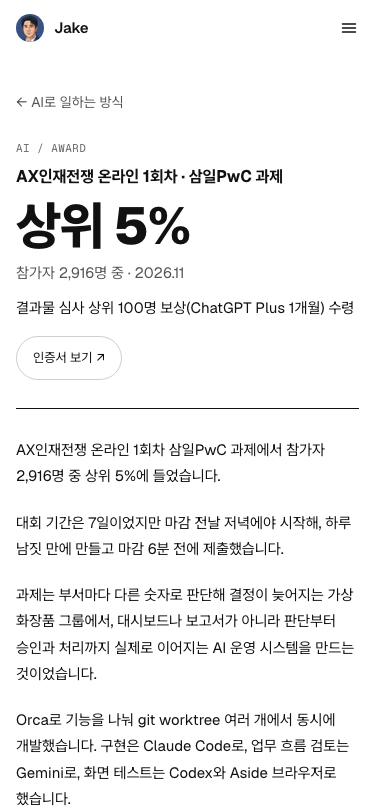
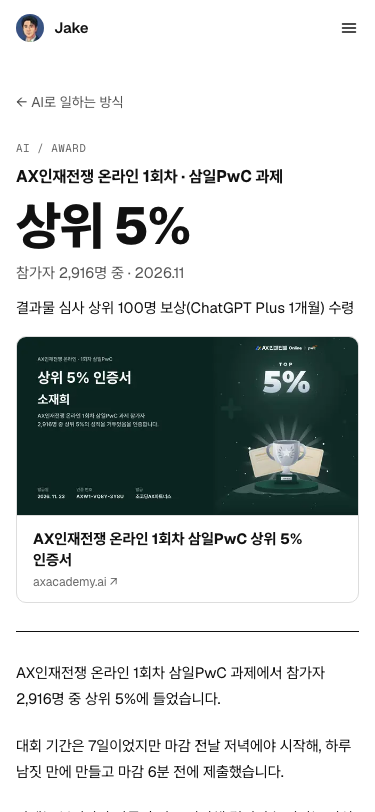
docs: record the certificate card on /ai/axwar

Changed region(s): [[0.0293, 0.4002, 0.968, 1.0]]

diff --git a/docs/02-ia.md b/docs/02-ia.md
@@ -11,7 +11,7 @@
 | `/ai` | AI로 일하는 방식. 아홉 항목을 네 묶음으로 한 페이지에 잇습니다(`/ai#slug`) | 1차 (F3) |
 | `/ai/case` | AI 도구 활용 사례. 프로젝트 하나를 AI와 진행한 흐름을 4컷과 본문으로 보여 줍니다. 헤더 메뉴에는 없고 `/ai` 맨 위 입구로 들어갑니다 | 1차 뒤 추가 (2026-10-20) |
 | `/ai/jake-english` | Jake English 소개. 소개 영상, 이야기 4컷, 연습하는 방법, 영상의 다섯 장, 기술 스택을 한 페이지에 잇고, 앱 저장소로 가는 링크를 둡니다. 헤더 메뉴에는 없고 `/ai` 맨 위 띠로 들어갑니다 | 1차 뒤 추가 (2026-11-11) |
-| `/ai/axwar` | AX인재전쟁 대회 결과. 상위 5%, 덧붙임 한 줄, 공개 인증서 링크, 만든 이야기 네 문단을 한 페이지에 둡니다. 헤더 메뉴와 `/ai`에는 없고 홈과 `/resume`의 대회 결과 띠로 들어갑니다 | 1차 뒤 추가 (2026-11-27) |
+| `/ai/axwar` | AX인재전쟁 대회 결과. 상위 5%, 덧붙임 한 줄, 공개 인증서 카드, 만든 이야기 네 문단을 한 페이지에 둡니다. 헤더 메뉴와 `/ai`에는 없고 홈과 `/resume`의 대회 결과 띠로 들어갑니다 | 1차 뒤 추가 (2026-11-27) |
 | `/resume` | 이력서 (인쇄용) | 1차 (F4) |
 | `/about`, `/intro`, `/hello`, `/me`, `/profile`, `/welcome`, `/start`, `/info`, `/home`, `/main`, `/bio` | 홈과 같은 화면. 주소창은 그 주소 그대로이고 방문 통계에는 주소마다 따로 잡힙니다. 대표 주소는 홈이고 사이트맵과 헤더 메뉴에는 없습니다 | 1차 뒤 추가 (2026-11-17, `/bio`는 2026-11-23) |
 | `/en/...` | 영어 페이지 | 2차 |
@@ -83,7 +83,7 @@
 | 메시지 | AI가 기준을 벗어나지 않게 하네스를 먼저 갖추고, 그 위에서 빠르게 구현합니다. 개발 업무가 아닌 작업에도 같은 방식을 씁니다 |
 | 사실과 출처 | `content/site/ai/`의 사이트 전용 글. "이 사이트" 카드는 이 저장소 |
 | 구성 | 머리 `AI` · 제목 "AI로 일하는 방식" · 소개(메시지와 같음) · 대회 결과 띠 한 줄 · 카드 네 장. 카드마다 버튼은 "자세히 보기"(`/ai#slug`) 하나입니다 |
-| 띠 (2026-11-23) | 소개 문장 아래, 카드 네 장 위에 테두리 띠 하나를 둡니다. 왼쪽 첫 줄 "AI 실력을 겨루는 AX인재전쟁 대회 상위 5% 성적", 둘째 줄 "삼일PwC 출제 과제 · 이틀 만에 AI 운영 시스템 구현 · 참가자 2,916명 중 · 2026.11", 오른쪽에 테두리 버튼 "자세히 보기"입니다. 버튼은 대회 결과 페이지 [`/ai/axwar`](#aiaxwar-ax인재전쟁-대회-결과)로 같은 창에서 갑니다(2026-11-27). 둘째 줄은 처음에 "삼일PwC 출제 과제 · 이틀 만에 AI 운영 시스템 구현 · 참가자 2,916명 중 · 2026.11"이었고, 2026-11-27에 기간을 빼 "삼일PwC 출제 과제 · AI 운영 시스템 구현 · 참가자 2,916명 중 · 2026.11"로 바꿨습니다. 이력서 자기소개의 "이틀 만에"(날짜로 셈)와 `/ai/axwar` 본문의 "하루 남짓"(시간으로 셈)이 한 화면에서 부딪히지 않게 하려는 것입니다. 버튼은 처음에 "인증서 보기"로 로그인 없이 열리는 공개 인증서 페이지를 새 창으로 열었고, 인증서 링크는 이제 `/ai/axwar` 위쪽에 있습니다. 기업이 낸 실제 과제로 AI 실력을 겨루는 대회의 결과이고, 사실의 출처는 이력서의 대외활동 절과 공개 인증서 페이지입니다. 문구와 링크는 `content/site/home.md`의 `sections.ai.award`에 있습니다. 홈과 `/resume`에 두고 `/ai`에는 싣지 않습니다. 버튼이 가는 `/ai/axwar`도 주소만 `/ai` 아래이고 `/ai`에는 입구가 없습니다. 값은 [03-design.md](03-design.md#홈-ai-섹션-띠에서-정한-값)에 있습니다 |
+| 띠 (2026-11-23) | 소개 문장 아래, 카드 네 장 위에 테두리 띠 하나를 둡니다. 왼쪽 첫 줄 "AI 실력을 겨루는 AX인재전쟁 대회 상위 5% 성적", 둘째 줄 "삼일PwC 출제 과제 · AI 운영 시스템 구현 · 참가자 2,916명 중 · 2026.11", 오른쪽에 테두리 버튼 "자세히 보기"입니다. 버튼은 대회 결과 페이지 [`/ai/axwar`](#aiaxwar-ax인재전쟁-대회-결과)로 같은 창에서 갑니다(2026-11-27). 둘째 줄은 처음에 "삼일PwC 출제 과제 · 이틀 만에 AI 운영 시스템 구현 · 참가자 2,916명 중 · 2026.11"이었고, 2026-11-27에 기간을 뺐습니다. 이력서 자기소개의 "이틀 만에"(날짜로 셈)와 `/ai/axwar` 본문의 "하루 남짓"(시간으로 셈)이 한 화면에서 부딪히지 않게 하려는 것입니다. 버튼은 처음에 "인증서 보기"로 로그인 없이 열리는 공개 인증서 페이지를 새 창으로 열었고, 인증서 링크는 이제 `/ai/axwar` 위쪽에 있습니다. 기업이 낸 실제 과제로 AI 실력을 겨루는 대회의 결과이고, 사실의 출처는 이력서의 대외활동 절과 공개 인증서 페이지입니다. 문구와 링크는 `content/site/home.md`의 `sections.ai.award`에 있습니다. 홈과 `/resume`에 두고 `/ai`에는 싣지 않습니다. 버튼이 가는 `/ai/axwar`도 주소만 `/ai` 아래이고 `/ai`에는 입구가 없습니다. 값은 [03-design.md](03-design.md#홈-ai-섹션-띠에서-정한-값)에 있습니다 |
 | 움직임 | 없음 |
 
 | 카드 | 제목 문장 | 숫자 | 그림 |
@@ -436,18 +436,23 @@ Design 캔버스에 실제 문구로 그린 `/ai` 시안입니다.
 |---|---|
 | 메시지 | AI 실력을 겨루는 대회에서 상위 5%에 들었고, 무엇을 어떻게 만들었는지 로그인 없이 한 페이지에서 봅니다 |
 | 사실과 출처 | 사이트 전용 글 `content/site/axwar.md`([ADR-0003](adr/0003-content-source-and-sync.md)). 대회 이름, 참가자 수, 상위 5%는 이력서의 대외활동 절과 자기소개, 공개 인증서 페이지, 결과 발표 공지입니다. 덧붙임 줄과 본문 네 문단(본인이 쓴 글)은 공개 공지와 본인 확인(2026-11-27)이 출처이고, 글 끝 주석에 적었습니다 |
-| 구성 | 한 페이지. 돌아가기 링크 → 머리(대회 이름, 큰 결과, 참가자 줄, 덧붙임 줄, 인증서 버튼) → 굵은 선 → 본문 네 문단 → 끝 링크 → 푸터 |
+| 구성 | 한 페이지. 돌아가기 링크 → 머리(대회 이름, 큰 결과, 참가자 줄, 덧붙임 줄, 인증서 카드) → 굵은 선 → 본문 네 문단 → 끝 링크 → 푸터 |
 | 움직임 | 없음 |
 
 - **왜 두나**: 홈 띠의 버튼이 대회 측 인증서로 바로 가서, 무엇을 어떻게 만들었는지 설명할 곳이 없었습니다. 같은 글을 올린 다른 곳은 로그인해야 보이고 메신저 안 브라우저에서 열기 번거로워, 로그인 없이 열리고 링크를 보내기 좋은 페이지를 둡니다.
 - **들어오는 길**: 홈 "AI로 일하는 방식"과 `/resume` 머리 아래의 대회 결과 띠, 버튼 "자세히 보기"입니다. 헤더 메뉴와 `/ai`에는 입구가 없습니다. 주소가 `/ai` 아래라 헤더의 "AI"에 지금 보는 곳 표시(밑줄, `aria-current="true"`)가 붙습니다.
 - **돌아가기 링크**: 머리 위에 "← AI로 일하는 방식"(`/ai`). 형제 페이지와 같습니다(AI 판단).
-- **머리**: 머리글 `AI / AWARD`(형제 페이지의 `AI / CASE`, `AI / APP`에 맞춤, AI 판단). 그 아래 "AX인재전쟁 온라인 1회차 · 삼일PwC 과제"(굵게), 큰 "상위 5%", 회색 "참가자 2,916명 중 · 2026.11", 덧붙임 "결과물 심사 상위 100명 보상(ChatGPT Plus 1개월) 수령", 테두리 버튼 "인증서 보기 ↗"(새 창) 순서입니다.
+- **머리**: 머리글 `AI / AWARD`(형제 페이지의 `AI / CASE`, `AI / APP`에 맞춤, AI 판단). 그 아래 "AX인재전쟁 온라인 1회차 · 삼일PwC 과제"(굵게), 큰 "상위 5%", 회색 "참가자 2,916명 중 · 2026.11", 덧붙임 "결과물 심사 상위 100명 보상(ChatGPT Plus 1개월) 수령", 인증서 카드(그림 전체 폭 아래에 제목 "AX인재전쟁 온라인 1회차 삼일PwC 상위 5% 인증서"와 도메인 "axacademy.ai ↗", 새 창) 순서입니다.
   - 대회 이름 줄과 "상위 5%"는 화면에서 두 줄이지만 h1 하나로 묶어, 화면 읽기 프로그램과 검색엔진에는 "AX인재전쟁 온라인 1회차 · 삼일PwC 과제 상위 5%"로 읽힙니다(AI 판단). "상위 5%"만 h1이면 무엇의 결과인지 빠집니다.
   - 덧붙임 줄은 처음에 문장("~도 받았습니다")으로 정했다가 개조식으로 바꿨습니다(2026-11-27, 사용자).
   - 브라우저 제목은 "AX인재전쟁 대회 상위 5% · 소재희", 검색 설명은 본문 첫 문단입니다. 같은 문장을 두 곳에 두지 않으려고 설명을 따로 쓰지 않습니다(AI 판단).
 - **본문**: 굵은 선 아래 네 문단입니다. 본인이 쓴 글을 그대로 씁니다. 제작 기간은 "하루 남짓"입니다(마감 전날 저녁에 시작해 마감 6분 전에 제출). 이력서 자기소개의 "이틀 만에"는 날짜로 센 말이라 원문을 고치지 않고, 대신 띠에서 기간을 뺐습니다.
-- **끝 링크**: "인증서 보기 ↗"(채운 버튼, 새 창), "AI로 일하는 방식"(테두리 버튼) 순서입니다(AI 판단).
+- **인증서 카드**(2026-11-27, 사용자 요청): 링크드인 게시물의 링크 카드처럼 인증서를 미리보기 카드 하나로 보여 줍니다. 처음에는 머리 아래 테두리 버튼과 끝 버튼 줄의 채운 버튼, "인증서 보기" 두 개가 같은 곳으로 갔습니다.
+  - 그림은 인증서 페이지의 공유 그림(1200×630)을 받아 저장소에 둡니다(`src/assets/ai/axwar/cert.png`). 대회 측이 인증서를 비공개로 돌리거나 주소를 바꿔도 카드가 깨지지 않게 하려는 것입니다. 그림 안에 이름, 발급일, 인증 번호, 발급처, 주최 로고가 있고, 모두 공개 인증서 페이지에 있는 내용입니다.
+  - 제목은 인증서 페이지가 그림 설명으로 쓰는 "AX인재전쟁 온라인 1회차 삼일PwC 상위 5% 인증서"입니다. 페이지 제목("… 님의 상위 5% 인증서")은 제 이름에 "님"이 붙어 쓰지 않습니다.
+  - 카드 전체가 링크 하나이고 새 창으로 엽니다. 그림의 대체 텍스트는 비웁니다. 바로 아래 제목이 같은 것을 말합니다(`/ai/case`와 같은 규칙, AI 판단).
+  - 비교한 안: A 가로형(왼쪽 썸네일, 머리 아래), B 세로형(그림 전체 폭, 머리 아래), C 세로형(본문 끝). B를 골랐습니다. 인증서의 글이 읽혀 증빙이 바로 보이고, 첫 화면 안에 듭니다. A는 375 썸네일에 인증서 글이 보이지 않고, C는 첫 화면에 인증서가 없습니다.
+- **끝 링크**: "AI로 일하는 방식"(테두리 버튼) 하나입니다. 인증서로 가는 길은 머리 아래 카드 하나로 줄였습니다(2026-11-27).
 - **싣지 않는 것**: 제출한 앱 링크, 대회 때 만든 저장소, 대회가 나눠 준 문제지와 업무 흐름도.
 - **공유 그림**: 다른 페이지와 같은 공통 그림입니다. 공유 제목과 설명만 이 페이지의 것입니다. 비교판에서 이 페이지 전용 그림(대회 이름과 큰 "상위 5%")을 골랐다가, 같은 날 모든 페이지가 같은 그림 한 장이라는 규칙([검색과 공유 정책](guide/SEO_검색과_공유_정책_20261017.md))을 그대로 따르기로 바꿨습니다(2026-11-27, 사용자).
 - **맨 위로 버튼과 다음 페이지 버튼은 두지 않습니다**(AI 판단). 목차가 없는 하위 페이지이고 `/ai/case`, `/ai/jake-english`와 같은 짜임입니다.
@@ -460,7 +465,11 @@ Design 캔버스에 실제 문구로 그린 `/ai` 시안입니다.
 |---|---|---|---|
 | ![글 중심 배치 시안](design/ai-axwar/board-layout-A-1280.png) | ![숫자 강조 배치 시안](design/ai-axwar/board-layout-B-1280.png) | ![인증서 상자 배치 시안](design/ai-axwar/board-layout-C-1280.png) | ![모바일 숫자 강조 배치 시안](design/ai-axwar/board-layout-B-375.png) |
 
-구현 뒤 캡처입니다(2026-11-27, 개발 서버, 1배).
+| 카드 지금 (버튼 두 개) | 카드 A (가로형) | 카드 B (고름) | 카드 C (본문 끝) |
+|---|---|---|---|
+| ![인증서 버튼 두 개가 있던 화면](design/ai-axwar/board-card-now-1280.png) | ![가로형 인증서 카드 시안](design/ai-axwar/board-card-A-1280.png) ![모바일 가로형 인증서 카드 시안](design/ai-axwar/board-card-A-375.png) | ![세로형 인증서 카드 시안](design/ai-axwar/board-card-B-1280.png) ![모바일 세로형 인증서 카드 시안](design/ai-axwar/board-card-B-375.png) | ![본문 끝 인증서 카드 시안](design/ai-axwar/board-card-C-1280.png) |
+
+구현 뒤 캡처입니다(2026-11-27, 개발 서버, 1배. 인증서 카드를 넣은 뒤 다시 찍음).
 
 | 페이지 1280 | 페이지 375 | 페이지 1280 다크 | 페이지 375 다크 |
 |---|---|---|---|

diff --git a/docs/superpowers/specs/2026-11-27-ai-axwar-design.md b/docs/superpowers/specs/2026-11-27-ai-axwar-design.md
@@ -10,7 +10,7 @@
 
 ## 목표
 
-- `/ai/axwar` 한 페이지에서 결과(상위 5%), 덧붙임 한 줄, 공개 인증서 링크, 만든 이야기(링크드인 글 네 문단)를 봅니다.
+- `/ai/axwar` 한 페이지에서 결과(상위 5%), 덧붙임 한 줄, 공개 인증서 카드, 만든 이야기(링크드인 글 네 문단)를 봅니다.
 - 홈과 `/resume`의 대회 결과 띠 버튼이 이 페이지로 옵니다. 인증서 링크는 이 페이지 위쪽으로 옮깁니다.
 - 링크를 카카오톡 등에 보내면 이 페이지만의 제목과 설명이 뜹니다. 그림은 모든 페이지가 같이 쓰는 공통 그림입니다. 사이트맵에 넣습니다.
 
@@ -79,10 +79,12 @@ AX인재전쟁 온라인 1회차 · 삼일PwC 과제      (굵게)
 상위 5%                                      (아주 크게)
 참가자 2,916명 중 · 2026.11                  (회색)
 결과물 심사 상위 100명 보상(ChatGPT Plus 1개월) 수령
-[인증서 보기 ↗]
+┌ 인증서 그림 (전체 폭) ┐
+│ AX인재전쟁 온라인 1회차 삼일PwC 상위 5% 인증서
+└ axacademy.ai ↗        ┘                   (카드 하나, 새 창)
 ━━━━━━━━━━━━━━━━━━━━━━━━━━━━━━━━━━━━━━━━━━━━
 본문 네 문단
-[인증서 보기 ↗] [AI로 일하는 방식]
+[AI로 일하는 방식]
 ```
 
 - **돌아가기 링크**: "← AI로 일하는 방식"(`/ai`). 형제 페이지와 같습니다. (AI 판단)
@@ -90,13 +92,16 @@ AX인재전쟁 온라인 1회차 · 삼일PwC 과제      (굵게)
 - **제목(h1)**: 화면에는 대회 이름 줄과 큰 "상위 5%" 두 줄로 보이고, 두 줄을 h1 하나에 넣습니다. 화면 읽기 프로그램과 검색엔진에는 "AX인재전쟁 온라인 1회차 · 삼일PwC 과제 상위 5%"로 읽힙니다. "상위 5%"만 h1이면 무엇의 결과인지 빠지기 때문입니다. (AI 판단)
 - **참가자 줄**: "참가자 2,916명 중 · 2026.11", 회색.
 - **덧붙임 줄**(확정 문구, 개조식): "결과물 심사 상위 100명 보상(ChatGPT Plus 1개월) 수령". 본문 글자색입니다.
-- **인증서 버튼**: 덧붙임 아래 테두리 버튼 "인증서 보기 ↗", 새 창. 주소는 https://axacademy.ai/axwar/cert/dxN6SEBhEGU6n1JU1brdfPa0
+- **인증서 카드**(2026-11-27 둘째 비교판에서 정함): 덧붙임 아래에 링크드인 게시물의 링크 카드 같은 카드 하나. 그림 전체 폭(데스크톱 30rem까지) 아래에 제목 "AX인재전쟁 온라인 1회차 삼일PwC 상위 5% 인증서"와 도메인 "axacademy.ai". 카드 전체가 링크이고 새 창으로 https://axacademy.ai/axwar/cert/dxN6SEBhEGU6n1JU1brdfPa0 를 엽니다.
+  - 그림은 인증서 페이지의 공유 그림(og:image, 1200×630)을 받아 `src/assets/ai/axwar/cert.png`에 둡니다. 인증서가 비공개로 바뀌어도 깨지지 않게 하려는 것입니다.
+  - 제목은 인증서 페이지의 그림 설명(og:image:alt)입니다. 페이지 제목(og:title)은 이름에 "님"이 붙어 쓰지 않습니다.
+  - 처음 설계는 덧붙임 아래 테두리 버튼 "인증서 보기 ↗"와 끝 버튼 줄의 채운 버튼 "인증서 보기 ↗"였습니다. 같은 버튼이 두 번 보인다는 사용자 지적으로 카드 하나로 바꿨습니다. 둘째 비교판에서 가로형(머리 아래), 세로형(머리 아래), 세로형(본문 끝)을 견줘 세로형 머리 아래를 골랐습니다.
 - **본문**: 굵은 선 아래 링크드인 글 네 문단 그대로입니다. 폭은 형제 페이지 본문과 같은 45rem까지입니다.
   1. AX인재전쟁 온라인 1회차 삼일PwC 과제에서 참가자 2,916명 중 상위 5%에 들었습니다.
   2. 대회 기간은 7일이었지만 마감 전날 저녁에야 시작해, 하루 남짓 만에 만들고 마감 6분 전에 제출했습니다.
   3. 과제는 부서마다 다른 숫자로 판단해 결정이 늦어지는 가상 화장품 그룹에서, 대시보드나 보고서가 아니라 판단부터 승인과 처리까지 실제로 이어지는 AI 운영 시스템을 만드는 것이었습니다.
   4. Orca로 기능을 나눠 git worktree 여러 개에서 동시에 개발했습니다. 구현은 Claude Code로, 업무 흐름 검토는 Gemini로, 화면 테스트는 Codex와 Aside 브라우저로 했습니다.
-- **끝 버튼**: "인증서 보기 ↗"(채운 버튼, 새 창), "AI로 일하는 방식"(테두리 버튼, `/ai`). 형제 페이지의 끝 버튼 줄과 같은 짜임입니다. (AI 판단)
+- **끝 버튼**: "AI로 일하는 방식"(테두리 버튼, `/ai`) 하나입니다. 인증서는 카드 하나로만 갑니다.
 
 ### 값 (비교판 B 그대로, rem)
 
@@ -110,7 +115,7 @@ AX인재전쟁 온라인 1회차 · 삼일PwC 과제      (굵게)
 | "상위 5%" | 3.25rem, 굵기 800, 자간 -0.025em, 줄 간격 1.1 | 5rem |
 | 참가자 줄 | 0.9375rem, `muted` | 1.0625rem |
 | 덧붙임 줄 | 0.9375rem, `fg`, 줄 간격 1.6, 위 0.25rem 더 | 1.0625rem, 위 0.5rem 더 |
-| 인증서 버튼 | 테두리 버튼(높이 2.75rem), 위 0.5rem 더 | 높이 2.5rem, 위 0.75rem 더 |
+| 인증서 카드 | 본문 폭 전체, 테두리 `line`, 모서리 0.625rem, 위 0.5rem 더. 글 칸 여백 0.75rem · 1rem, 제목 0.9375rem 굵게, 도메인 0.75rem `subtle` | 폭 30rem까지, 모서리 0.75rem, 위 0.75rem 더. 글 칸 여백 0.875rem · 1.25rem, 제목 1rem |
 | 머리와 굵은 선 사이 | 1.75rem | 2.5rem |
 | 굵은 선과 본문 사이 | 1.75rem | 2.5rem |
 | 본문 | 0.9375rem, 줄 간격 1.75, 문단 사이 1.25rem, 폭 45rem까지 | 1.0625rem |
@@ -122,7 +127,7 @@ AX인재전쟁 온라인 1회차 · 삼일PwC 과제      (굵게)
 
 ### 글의 자리 (AI 판단)
 
-- 새 사이트 전용 글 `content/site/axwar.md`의 머리말에 둡니다: `title`(브라우저와 공유 제목 앞부분 "AX인재전쟁 대회 상위 5%"), `contest`, `result`, `participants`("참가자 2,916명 중"), `date`("2026.11"), `extra`(덧붙임), `cert: { href, cta }`, `body`(네 문단). 글 끝 주석에 위 "사실과 출처"를 씁니다.
+- 새 사이트 전용 글 `content/site/axwar.md`의 머리말에 둡니다: `title`(브라우저와 공유 제목 앞부분 "AX인재전쟁 대회 상위 5%"), `contest`, `result`, `participants`("참가자 2,916명 중"), `date`("2026.11"), `extra`(덧붙임), `cert: { href, title, domain }`, `body`(네 문단). 글 끝 주석에 위 "사실과 출처"를 씁니다.
 - 형은 `src/lib/content.ts`에 `Axwar`, 읽는 함수는 `getAxwar()`입니다. 형제 페이지와 같은 방식입니다.
 - 공유 설명은 따로 쓰지 않고 `body`의 첫 문단을 씁니다. 같은 문장을 두 곳에 두지 않기 위해서입니다.
 
@@ -144,7 +149,7 @@ AX인재전쟁 온라인 1회차 · 삼일PwC 과제      (굵게)
 ## 검증
 
 - E2E를 먼저 고치고 실패를 본 뒤 구현합니다.
-  - 새 `e2e/ai-axwar.spec.ts`: 200이고 콘솔 오류와 실패한 요청이 없음, 브라우저 제목, h1의 이름, 참가자 줄과 덧붙임 줄, 인증서 버튼의 주소와 새 창, 인증서 버튼이 굵은 선보다 위, 본문 네 문단이 글과 같음, 끝 링크, 헤더 "AI"의 `aria-current="true"`, 가로 스크롤 없음, 라이트와 다크 캡처.
+  - 새 `e2e/ai-axwar.spec.ts`: 200이고 콘솔 오류와 실패한 요청이 없음, 브라우저 제목, h1의 이름, 참가자 줄과 덧붙임 줄, 인증서 카드(링크 하나, 주소와 새 창, 그림·제목·도메인, 데스크톱 폭 30rem까지)가 굵은 선보다 위, 첫 화면 안에 카드까지, 본문 네 문단이 글과 같음, 끝 링크, 헤더 "AI"의 `aria-current="true"`, 가로 스크롤 없음, 라이트와 다크 캡처.
   - `e2e/home.spec.ts`, `e2e/resume.spec.ts`의 띠 시험: 주소 `/ai/axwar`, 새 창이 아님, 둘째 줄 문구.
   - `e2e/seo.spec.ts`: `PAGES`에 `/ai/axwar`. 그림은 다른 페이지와 같은 공통 그림인지 봅니다.
 - 캡처 목록에 `ai-axwar`를 더해 26장이 30장이 됩니다. `captures.test.mjs`와 `CLAUDE.md`의 숫자를 고칩니다.

diff --git a/docs/03-design.md b/docs/03-design.md
@@ -589,7 +589,7 @@
 | "상위 5%" | 3.25rem, 굵기 800, 자간 -0.025em, 줄 간격 1.1 | 5rem |
 | 참가자 줄 | 0.9375rem, `muted` | 1.0625rem |
 | 덧붙임 줄 | 0.9375rem, `fg`, 줄 간격 1.6, 위 0.25rem 더 | 1.0625rem, 위 0.5rem 더 |
-| 인증서 버튼 | 테두리 버튼(높이 2.75rem), 위 0.5rem 더 | 높이 2.5rem, 위 0.75rem 더 |
+| 인증서 카드 | 본문 폭 전체, 테두리 1 `line`, 모서리 0.625rem, 위 0.5rem 더. 그림 1200:630 전체 폭, 아래 선 `line`. 글 칸 안쪽 여백 위아래 0.75rem · 좌우 1rem, 제목 0.9375rem 굵게(700) 줄 간격 1.4, 도메인 0.75rem `subtle`, 사이 0.25rem | 폭 30rem까지, 모서리 0.75rem, 위 0.75rem 더. 글 칸 여백 위아래 0.875rem · 좌우 1.25rem, 제목 1rem |
 | 머리와 굵은 선 사이 | 1.75rem | 2.5rem |
 | 굵은 선과 본문 사이 | 1.75rem | 2.5rem |
 | 본문 | 0.9375rem, 줄 간격 1.75, 문단 사이 1.25rem, 폭 45rem까지 | 1.0625rem |
@@ -597,7 +597,9 @@
 
 - "상위 5%"는 이 사이트에서 첫 화면 첫 줄 다음으로 큰 글자입니다. 페이지가 말하는 것이 이 한 줄이라, 메신저에서 열었을 때 바로 읽히게 했습니다. 형제 페이지의 제목(1.75rem, 2.5rem)보다 커서 이 페이지만 머리가 다릅니다.
 - 색은 흑백뿐입니다. 결과를 강조색이나 그라데이션으로 칠하지 않습니다(위 "색").
-- 375×812와 1280×800 첫 화면 안에 인증서 버튼까지 들어오는지는 E2E가 봅니다. 구현 뒤 잰 인증서 버튼의 아래 끝은 페이지 위에서 375에서 약 23.8rem(380px), 1280에서 30rem(480px), 320에서 약 25.3rem(404px)입니다(2026-11-27, 개발 서버).
+- 인증서 카드는 링크 카드처럼 보이게 바탕 없이 테두리만 둡니다. 마우스를 올리면 테두리가 짙어지고(`fg` 40%) 제목에 밑줄이 생깁니다(AI 판단). 그림은 인증서 페이지의 공유 그림이라 색이 있습니다. 서비스 캡처처럼 그림 안의 색이고, 사이트 글과 선은 흑백 그대로입니다.
+- 끝 버튼 줄에는 "AI로 일하는 방식" 하나만 둡니다(인증서는 카드 하나로만 감, 2026-11-27).
+- 375×812와 1280×800 첫 화면 안에 인증서 카드까지 들어오는지는 E2E가 봅니다. 구현 뒤 잰 카드의 아래 끝은 페이지 위에서 375에서 약 37.7rem(603px), 1280에서 약 47.7rem(764px), 320에서 약 37.4rem(598px)입니다(2026-11-27, 개발 서버). 버튼이던 때는 375에서 380px, 1280에서 480px였습니다.
 
 | 첫 화면 1280×800 | 첫 화면 375×812 |
 |---|---|
